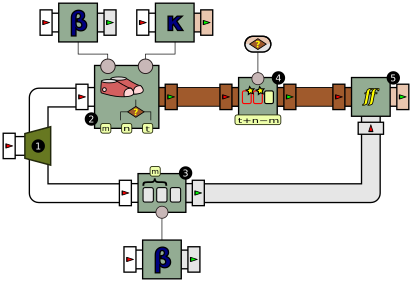
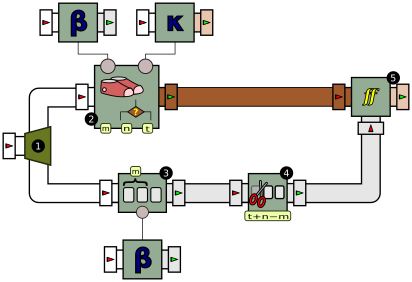
Self-trained class prediction (finished)

Changed region(s): [[0.233, 0.5674, 0.4951, 0.9929], [0.5243, 0.1135, 0.7282, 0.4539], [0.5534, 0.5674, 0.7573, 0.7943]]

diff --git a/Source/Core/src/ca/uqac/lif/cep/peg/weka/ClassifierTraining.java b/Source/Core/src/ca/uqac/lif/cep/peg/weka/ClassifierTraining.java
@@ -29,6 +29,7 @@ import ca.uqac.lif.cep.functions.ApplyFunction;
 import ca.uqac.lif.cep.tmf.Fork;
 import ca.uqac.lif.cep.tmf.Trim;
 import ca.uqac.lif.cep.tmf.Window;
+import weka.classifiers.Classifier;
 import weka.core.Attribute;
 import weka.core.Instances;
 
@@ -61,37 +62,82 @@ import weka.core.Instances;
  * output of this processor is therefore a stream of <em>classifiers</em>
  * (i.e. functions).
  * <p>
- * When represented as a single box, this processor used the following diagram:
+ * In other words, at each position <i>i</i> in the input stream, this
+ * chain considers two windows:
+ * <ul>
+ * <li>a first window <i>W</i><sub>1</sub>,
+ * comprising events <i>i</i> to <i>i</i>+<i>m</i>, over which a set of
+ * features is calculated by processor &beta;</li>
+ * <li>a second window <i>W</i><sub>2</sub>,
+ * comprising events <i>i</i>+<i>t</i> to <i>i</i>+<i>t</i>+<i>n</i>, over which the
+ * class is calculated by the "oracle" processor &kappa;</li>
+ * </ul>
+ * This is illustrated by the diagram below:
+ * <p>
+ * <img src="{@docRoot}/doc-files/Anticipation.png" alt="Anticipation">
+ * <p>
+ * A quick calculation reveals that the output of this chain is offset by
+ * <i>t</i>+<i>n</i>-<i>m</i> events with respect to the input (in other
+ * words, the first window for which an output classifier will be produced
+ * starts at position <i>t</i>+<i>n</i>-<i>m</i>). This also corresponds to
+ * the offset (in number of events) between the start of the "trend" window
+ * and the start of the "oracle" window.
+ * <p>
+ * When represented as a single box, this processor uses the following diagram:
  * <p>
  * <img src="{@docRoot}/doc-files/ClassifierTraining-box.png" alt="Processor">
- * <p>
- * @param beta The processor computing the trend over the window. This
- * corresponds to &beta; in the diagram
- * @param kappa The processor used as the oracle. This
- * corresponds to &kappa; in the diagram
- * @param uc A processor that updates a classifier based on the
- * feature/class pairs produced by &beta; and &kappa;
- * @param t The offset (in number of events) between the "feature" window
- * and the "class" window
- * @param n The width of the "class" window
- * @param m The width of the "feature" window
  */
 public class ClassifierTraining extends GroupProcessor
 {
-  protected UpdateClassifier m_uc;
-  
+  /**
+   * A reference to the &beta; processor in the chain
+   */
   protected Processor m_beta;
-  
+
+  /**
+   * A reference to the &kappa; processor in the chain
+   */
   protected Processor m_kappa;
-  
+
+  /**
+   * A reference to the instance of {@link UpdateClassifier} in the chain
+   */
+  protected UpdateClassifier m_uc;
+
+  /**
+   * The offset (in number of events) between the "feature" window
+   * and the "class" window
+   */
   protected int m_t;
-  
+
+  /**
+   * The width of the "class" window
+   */
   protected int m_n;
-  
+
+  /**
+   * The width of the "feature" window
+   */
   protected int m_m;
-  
-  public ClassifierTraining(Processor beta, Processor kappa, 
-      UpdateClassifier uc, int t, int n, int m)
+
+  /**
+   * Creates a new instance of the classifier training processor chain.
+   * The parameters <tt>t</tt>, <tt>m</tt> and <tt>n</tt> must satisfy the
+   * condition <tt>t</tt>+<tt>n</tt> &geq; <tt>m</tt>.
+   * @param beta The processor computing the trend over the window. This
+   * corresponds to &beta; in the diagram
+   * @param kappa The processor used as the oracle. This
+   * corresponds to &kappa; in the diagram
+   * @param uc A processor that updates a classifier based on the
+   * feature/class pairs produced by &beta; and &kappa;
+   * @param t The offset (in number of events) between the "feature" window
+   * and the "class" window
+   * @param n The width of the "class" window
+   * @param m The width of the "feature" window
+   */
+  /*@ requires t + n >= m @*/
+  public ClassifierTraining(/*@ non_null @*/ Processor beta, /*@ non_null @*/ Processor kappa, 
+      /*@ non_null @*/ UpdateClassifier uc, int t, int n, int m)
   {
     super(1, 1);
     m_beta = beta;
@@ -115,14 +161,14 @@ public class ClassifierTraining extends GroupProcessor
     associateInput(INPUT, f1, INPUT);
     associateOutput(OUTPUT, uc, OUTPUT);
   }
-  
+
   @Override
   public ClassifierTraining duplicate(boolean with_state)
   {
     return new ClassifierTraining(m_beta.duplicate(with_state), m_kappa.duplicate(with_state), 
         m_uc.duplicate(with_state), m_t, m_n, m_m);
   }
-  
+
   /**
    * Returns the dataset associated to the internal classifier
    * @return The dataset
@@ -131,7 +177,7 @@ public class ClassifierTraining extends GroupProcessor
   {
     return m_uc.getDataset();
   }
-  
+
   /**
    * Returns the attributes associated to the internal classifier
    * @return The attributes
@@ -139,5 +185,17 @@ public class ClassifierTraining extends GroupProcessor
   public Attribute[] getAttributes()
   {
     return m_uc.getAttributes();
+  }
+  
+  /**
+   * Returns the classifier used by the processor chain in its current state
+   * Note that this method should normally be used only for debugging purposes;
+   * to use the classifier in a processor chain, simply connect the output of
+   * the processor to a downstream processor chain.
+   * @return The classifier
+   */
+  /*@ pure non_null @*/ Classifier getClassifier()
+  {
+    return m_uc.getClassifier();
   }
 }

diff --git a/Source/CoreTest/src/ca/uqac/lif/cep/peg/weka/SelfTrainedClassPredictionTest.java b/Source/CoreTest/src/ca/uqac/lif/cep/peg/weka/SelfTrainedClassPredictionTest.java
@@ -22,7 +22,9 @@ import static org.junit.Assert.*;
 import ca.uqac.lif.cep.Connector;
 import ca.uqac.lif.cep.Pushable;
 import ca.uqac.lif.cep.functions.ApplyFunction;
+import ca.uqac.lif.cep.functions.FunctionTree;
 import ca.uqac.lif.cep.tmf.SinkLast;
+import ca.uqac.lif.cep.util.Bags;
 import ca.uqac.lif.cep.util.NthElement;
 import org.junit.Test;
 import weka.classifiers.Classifier;
@@ -46,7 +48,7 @@ public class SelfTrainedClassPredictionTest
     ApplyFunction beta = new ApplyFunction(new NthElement(0));
     ApplyFunction kappa = new ApplyFunction(new NthElement(1));
     ClassifierTraining ct = new ClassifierTraining(beta.duplicate(), kappa.duplicate(), uc, t, n, m);
-    SelfTrainedClassPrediction stcp = new SelfTrainedClassPrediction(ct, beta.duplicate(), new Id3(), t, n, m);
+    SelfTrainedClassPrediction stcp = new SelfTrainedClassPrediction(ct, beta.duplicate(), t, n, m);
     SinkLast sink = new SinkLast();
     Connector.connect(stcp, sink);
     Pushable p = stcp.getPushableInput();
@@ -63,22 +65,31 @@ public class SelfTrainedClassPredictionTest
   {
     int t = 1, m = 1, n = 1;
     Attribute[] attributes = new Attribute[] {
-        WekaUtils.createAttribute("A", "foo", "bar"), 
+        WekaUtils.createAttribute("A", "foo", "bar"),
+        WekaUtils.createAttribute("B", "0", "1"), 
         WekaUtils.createAttribute("class", "Y", "Z")};
     Classifier cl = new Id3();
     UpdateClassifier uc = new UpdateClassifier(cl, "test", attributes);
-    ApplyFunction beta = new ApplyFunction(new NthElement(0));
-    ApplyFunction kappa = new ApplyFunction(new NthElement(1));
+    ApplyFunction beta = new ApplyFunction(new FunctionTree(
+        new Bags.ToArray(String.class, String.class),
+        new NthElement(0),
+        new NthElement(1)));
+    ApplyFunction kappa = new ApplyFunction(new NthElement(2));
     ClassifierTraining ct = new ClassifierTraining(beta.duplicate(), kappa.duplicate(), uc, t, n, m);
-    SelfTrainedClassPrediction stcp = new SelfTrainedClassPrediction(ct, beta.duplicate(), new Id3(), t, n, m);
+    SelfTrainedClassPrediction stcp = new SelfTrainedClassPrediction(ct, beta.duplicate(), t, n, m);
     SinkLast sink = new SinkLast();
     Connector.connect(stcp, sink);
     Pushable p = stcp.getPushableInput();
-    p.push(new Object[] {"foo", "Y"});
+    p.push(new Object[] {"foo", "0", "Y"});
+    assertEquals(0l, uc.getInstanceCount());
+    assertNull(sink.getLast()); // The chain does not output a class before t+n-m events
+    p.push(new Object[] {"bar", "1", "Y"});
+    assertEquals(1l, uc.getInstanceCount());
     assertEquals("Y", sink.getLast()[0]);
-    p.push(new Object[] {"foo", "Y"});
-    assertEquals("Y", sink.getLast()[0]);
-    p.push(new Object[] {"bar", "Z"});
+    p.push(new Object[] {"bar", "1", "Z"});
+    assertEquals(2l, uc.getInstanceCount());
     assertEquals("Z", sink.getLast()[0]);
+    p.push(new Object[] {"foo", "1", "Z"});
+    assertEquals("Y", sink.getLast()[0]);
   }
 }

diff --git a/Source/Core/src/ca/uqac/lif/cep/peg/weka/SelfTrainedClassPrediction.java b/Source/Core/src/ca/uqac/lif/cep/peg/weka/SelfTrainedClassPrediction.java
@@ -27,28 +27,50 @@ import ca.uqac.lif.cep.GroupProcessor;
 import ca.uqac.lif.cep.Processor;
 import ca.uqac.lif.cep.functions.ApplyFunction;
 import ca.uqac.lif.cep.tmf.Fork;
-import ca.uqac.lif.cep.tmf.Insert;
+import ca.uqac.lif.cep.tmf.Trim;
 import ca.uqac.lif.cep.tmf.Window;
-import weka.classifiers.Classifier;
 
 /**
  * <p>
  * <img src="{@docRoot}/doc-files/SelfTrainedClassPrediction.png" alt="Processor chain">
+ * <p>
+ * An input stream is forked in two (box #1). The top stream is sent into a
+ * {@link ClassifierTraining} processor, which produces a stream of classifiers
+ * (box #2). The bottom stream is used to compute a set of features by a tend
+ * processor on a window of width <i>m</i> (box #3). Since the classifier training
+ * does not output a classifier before receiving <i>t</i>+<i>n</i>-<i>m</i> events
+ * (the so-called "warm up" phase), the first <i>t</i>+<i>n</i>-<i>m</i> trends
+ * are trimmed from this output stream. The trend and classifier streams are then
+ * sent to an {@link ApplyFunction} processor: given a classifier and a trend,
+ * it returns the class associated to the trend, as learned by the classifier. 
  */
 public class SelfTrainedClassPrediction extends GroupProcessor
 {
-  public SelfTrainedClassPrediction(ClassifierTraining ct, Processor beta, Classifier c, int t, int n, int m)
+  /**
+   * The parameters <tt>t</tt>, <tt>m</tt> and <tt>n</tt> must satisfy the
+   * condition <tt>t</tt>+<tt>n</tt> &geq; <tt>m</tt>.
+   * @param ct The classifier training processor used in the chain
+   * @param beta The processor computing the trend over the window. This
+   * corresponds to &beta; in the diagram
+   * @param t The offset (in number of events) between the "feature" window
+   * and the "class" window
+   * @param n The width of the "class" window
+   * @param m The width of the "feature" window
+   */
+  /*@ requires t + n >= m @*/
+  public SelfTrainedClassPrediction(ClassifierTraining ct, Processor beta, int t, int n, int m)
   {
     super(1, 1);
     Fork f = new Fork(2);
     Connector.connect(f, TOP, ct, INPUT);
     Window win = new Window(beta, m);
     Connector.connect(f, BOTTOM, win, INPUT);
-    Insert ins = new Insert(t + n - m, c);
-    Connector.connect(ct, ins);
+    Trim trim = new Trim(t + n - m);
     ApplyFunction af = new ApplyFunction(new WekaUtils.EvaluateClassifier(ct.getDataset(), ct.getAttributes()));
-    Connector.connect(ins, OUTPUT, af, LEFT);
-    Connector.connect(win, OUTPUT, af, BOTTOM);
+    Connector.connect(win, trim);
+    Connector.connect(ct, OUTPUT, af, LEFT);
+    Connector.connect(trim, OUTPUT, af, BOTTOM);
+    addProcessors(f, ct, win, trim, af);
     associateInput(INPUT, f, INPUT);
     associateOutput(OUTPUT, af, OUTPUT);
   }

diff --git a/Source/Core/src/ca/uqac/lif/cep/peg/weka/UpdateClassifier.java b/Source/Core/src/ca/uqac/lif/cep/peg/weka/UpdateClassifier.java
@@ -97,6 +97,11 @@ public class UpdateClassifier extends UniformProcessor
   protected int m_eventsSinceUpdate = 0;
   
   /**
+   * The number of input events received so far
+   */
+  protected long m_instanceCount = 0;
+  
+  /**
    * Creates a new update classifier processor.
    * @param c The classifier used to classify the instances. Depending on the
    * actual {@link Classifier} instance used, a different classification
@@ -162,6 +167,7 @@ public class UpdateClassifier extends UniformProcessor
   protected boolean compute(Object[] inputs, Object[] outputs)
   {
     m_eventsSinceUpdate++;
+    m_instanceCount++;
     Object[] input_array = (Object[]) inputs[0];
     Instance new_instance = null;
     try
@@ -193,6 +199,15 @@ public class UpdateClassifier extends UniformProcessor
     }
     outputs[0] = m_classifier;
     return true;
+  }
+  
+  /**
+   * Gets the number of instances fed to the classifier
+   * @return The number of instances received so far
+   */
+  /*@ pure @*/ long getInstanceCount()
+  {
+    return m_instanceCount;
   }
   
   @Override
@@ -232,5 +247,26 @@ public class UpdateClassifier extends UniformProcessor
   /*@ pure non_null @*/ public Attribute[] getAttributes()
   {
     return m_attributes;
+  }
+
+  /**
+   * Gets the classifier used by this processor chain in its current state.
+   * Note that this method should normally be used only for debugging purposes;
+   * to use the classifier in a processor chain, simply connect the output of
+   * the processor to a downstream processor chain.
+   * @return The classifier
+   */
+  /*@ pure non_null @*/ Classifier getClassifier()
+  {
+    return m_classifier;
+  }
+  
+  @Override
+  public void reset()
+  {
+    super.reset();
+    m_instanceCount = 0;
+    m_eventsSinceUpdate = 0;
+    m_instances = WekaUtils.createInstances(m_dataSetName, s_capacity, m_attributes);
   }
 }
